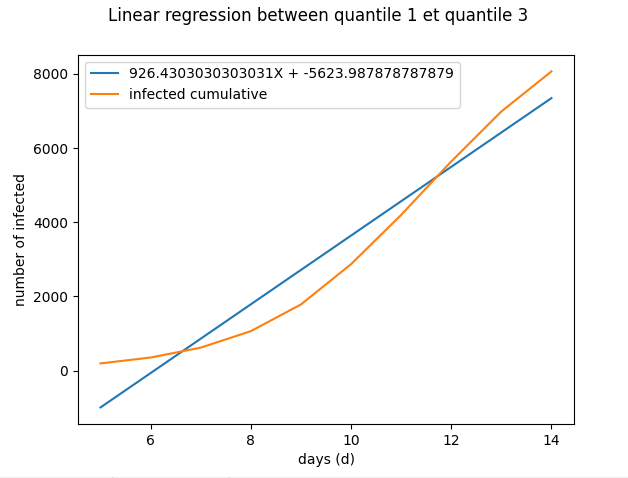
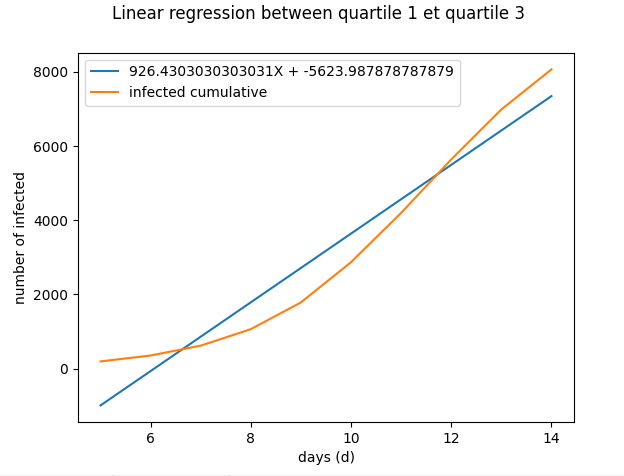
screen2

diff --git a/analyse.py b/analyse.py
@@ -75,7 +75,7 @@ if __name__ == "__main__":
     fitLine = predict(range(index1,index2))
     
     # display    
-    plt.suptitle('Linear regression between quantile 1 et quantile 3') 
+    plt.suptitle('Linear regression between quartile 1 et quartile 3') 
     plt.xlabel("days (d)")
     plt.ylabel("number of infected")
     plt.plot(xOUT,fitLine,label="{}X + {}".format(slope,intercept))
